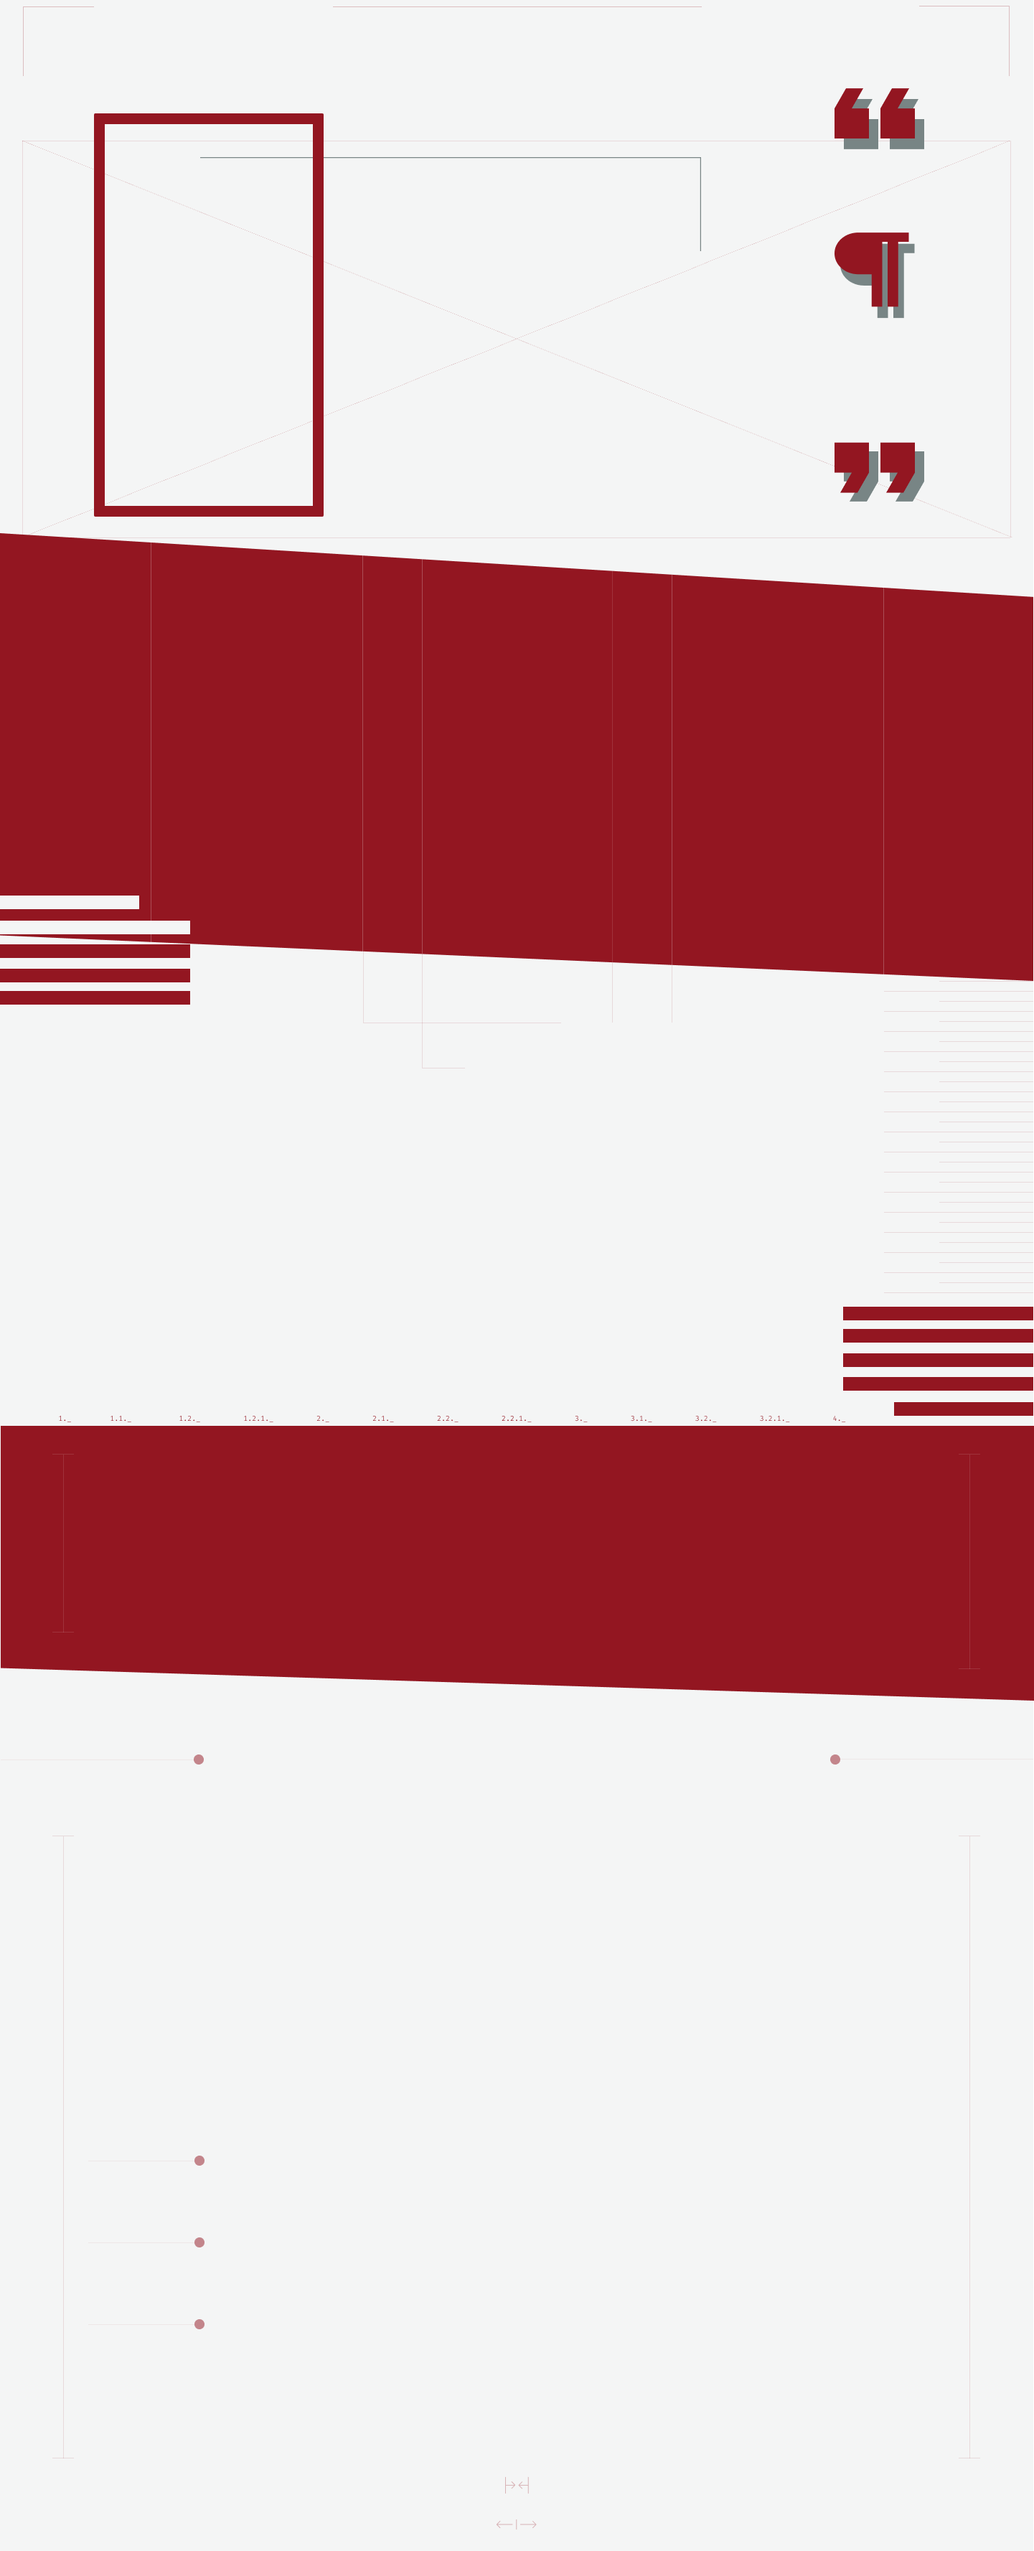
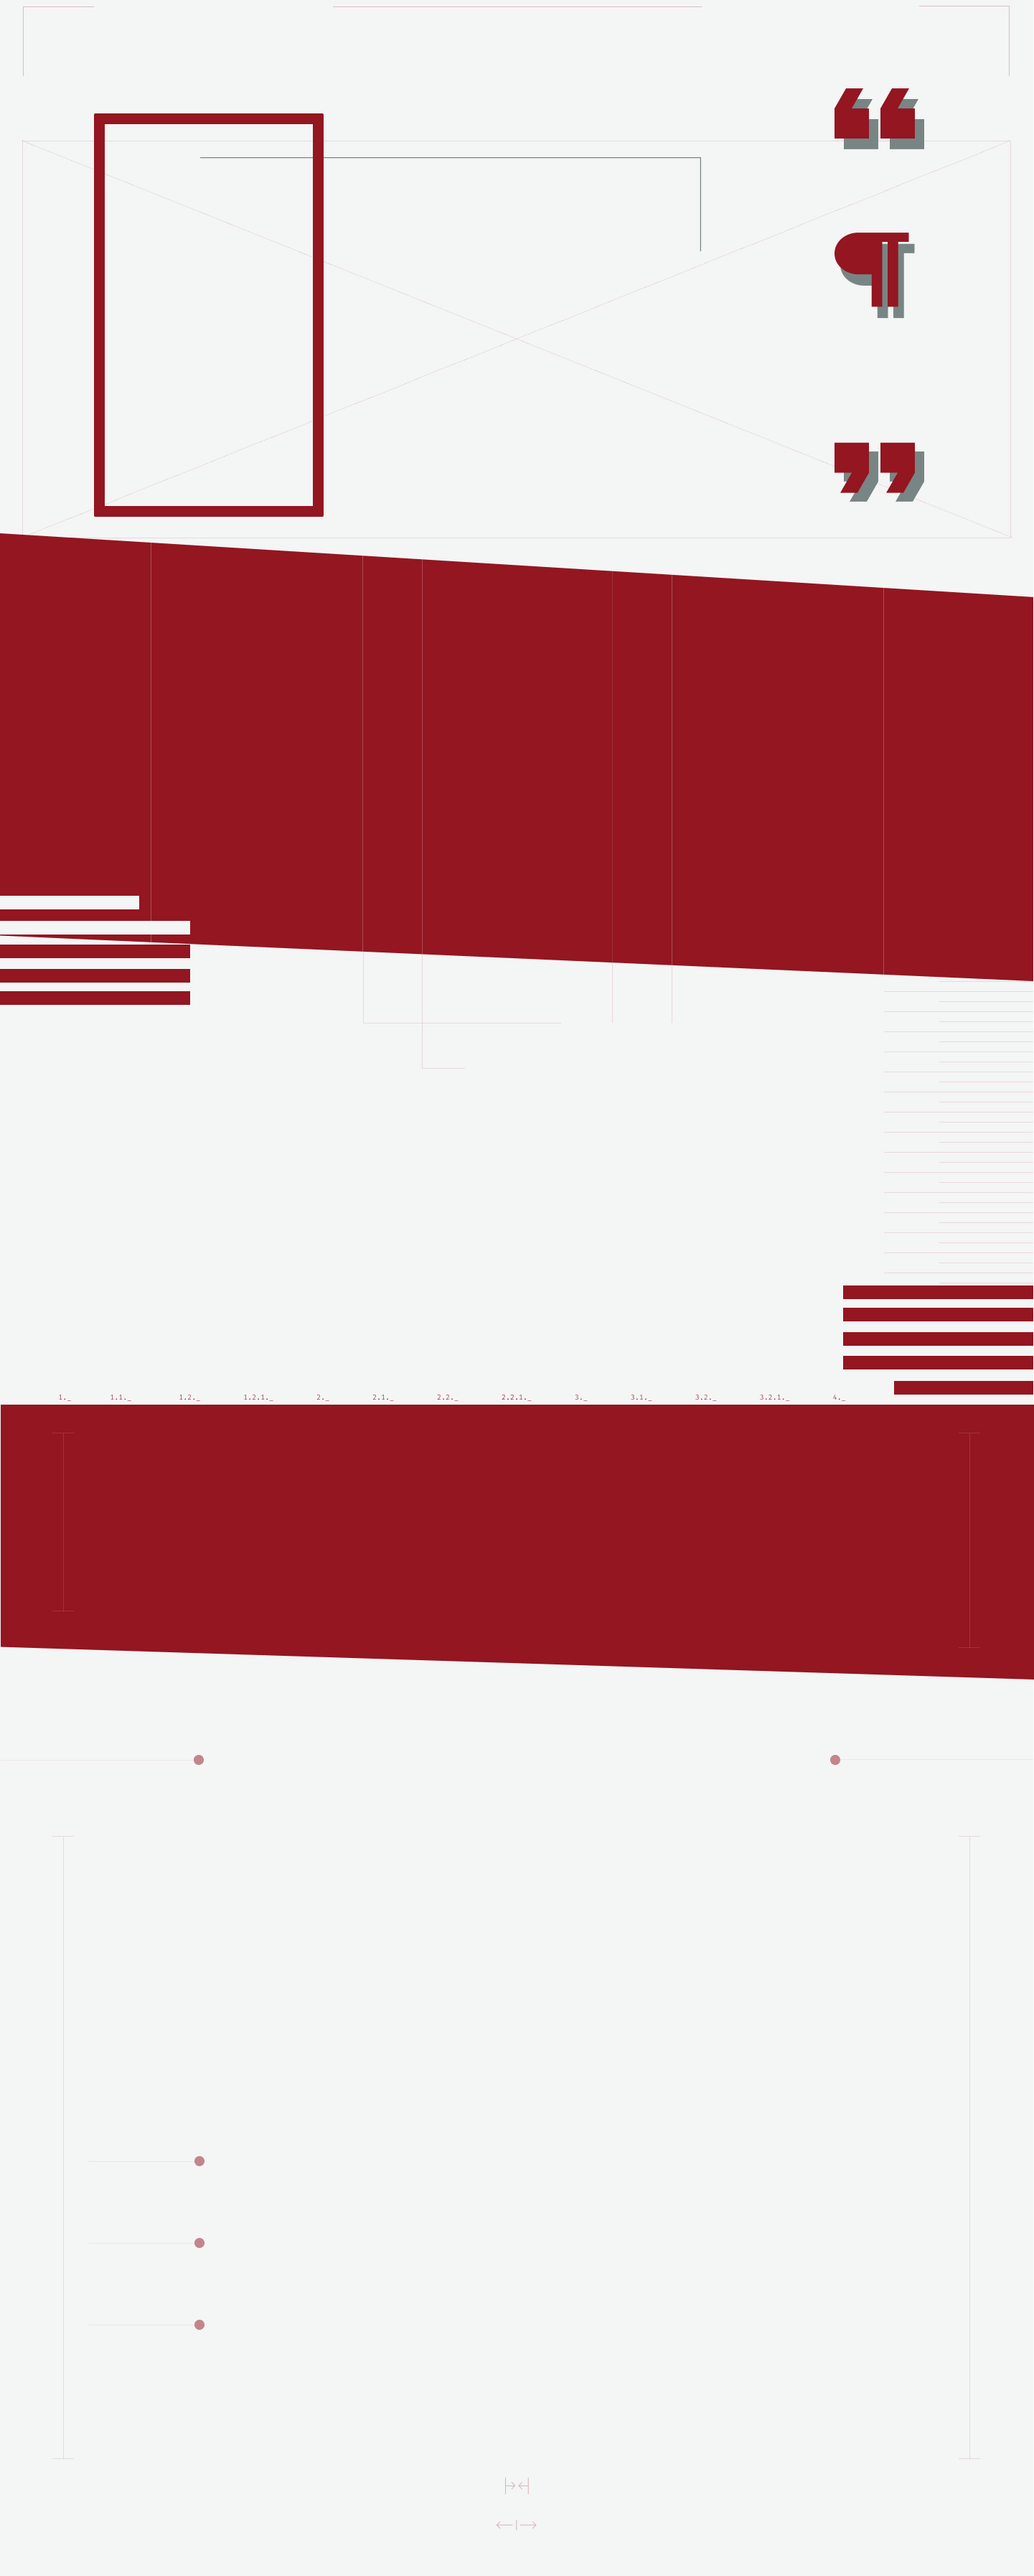
Layout size fix 80vh espec sect

diff --git a/css/style.css b/css/style.css
@@ -56,7 +56,7 @@ a {
 
 .container {  display: grid;
     grid-template-columns: 1fr;
-    grid-template-rows: 64px 90vh 100vh 90vh 90vh 60vh 100vh 20vh;
+    grid-template-rows: 64px 90vh 100vh 90vh 90vh 80vh 100vh 20vh;
     gap: 5px 5px;
     margin-left: 10%;
     margin-right: 10%;
@@ -293,7 +293,7 @@ a {
    padding-bottom: 2px;
   }
 .heroBannerBox p{
-    font-size: clamp(0.6rem, 1.2vw, 3rem);
+    font-size: clamp(0.5rem, 1.2vw, 3rem);
   }
 @media screen and (max-width: 600px) {
     .heroBanner {
@@ -591,7 +591,7 @@ a {
 
 .especTitleBox h2{
   color: var(--secundary-bg-color); 
-  margin-bottom: -29px;
+  
 }
 .especTitleBox{
   border-bottom-style: groove;
